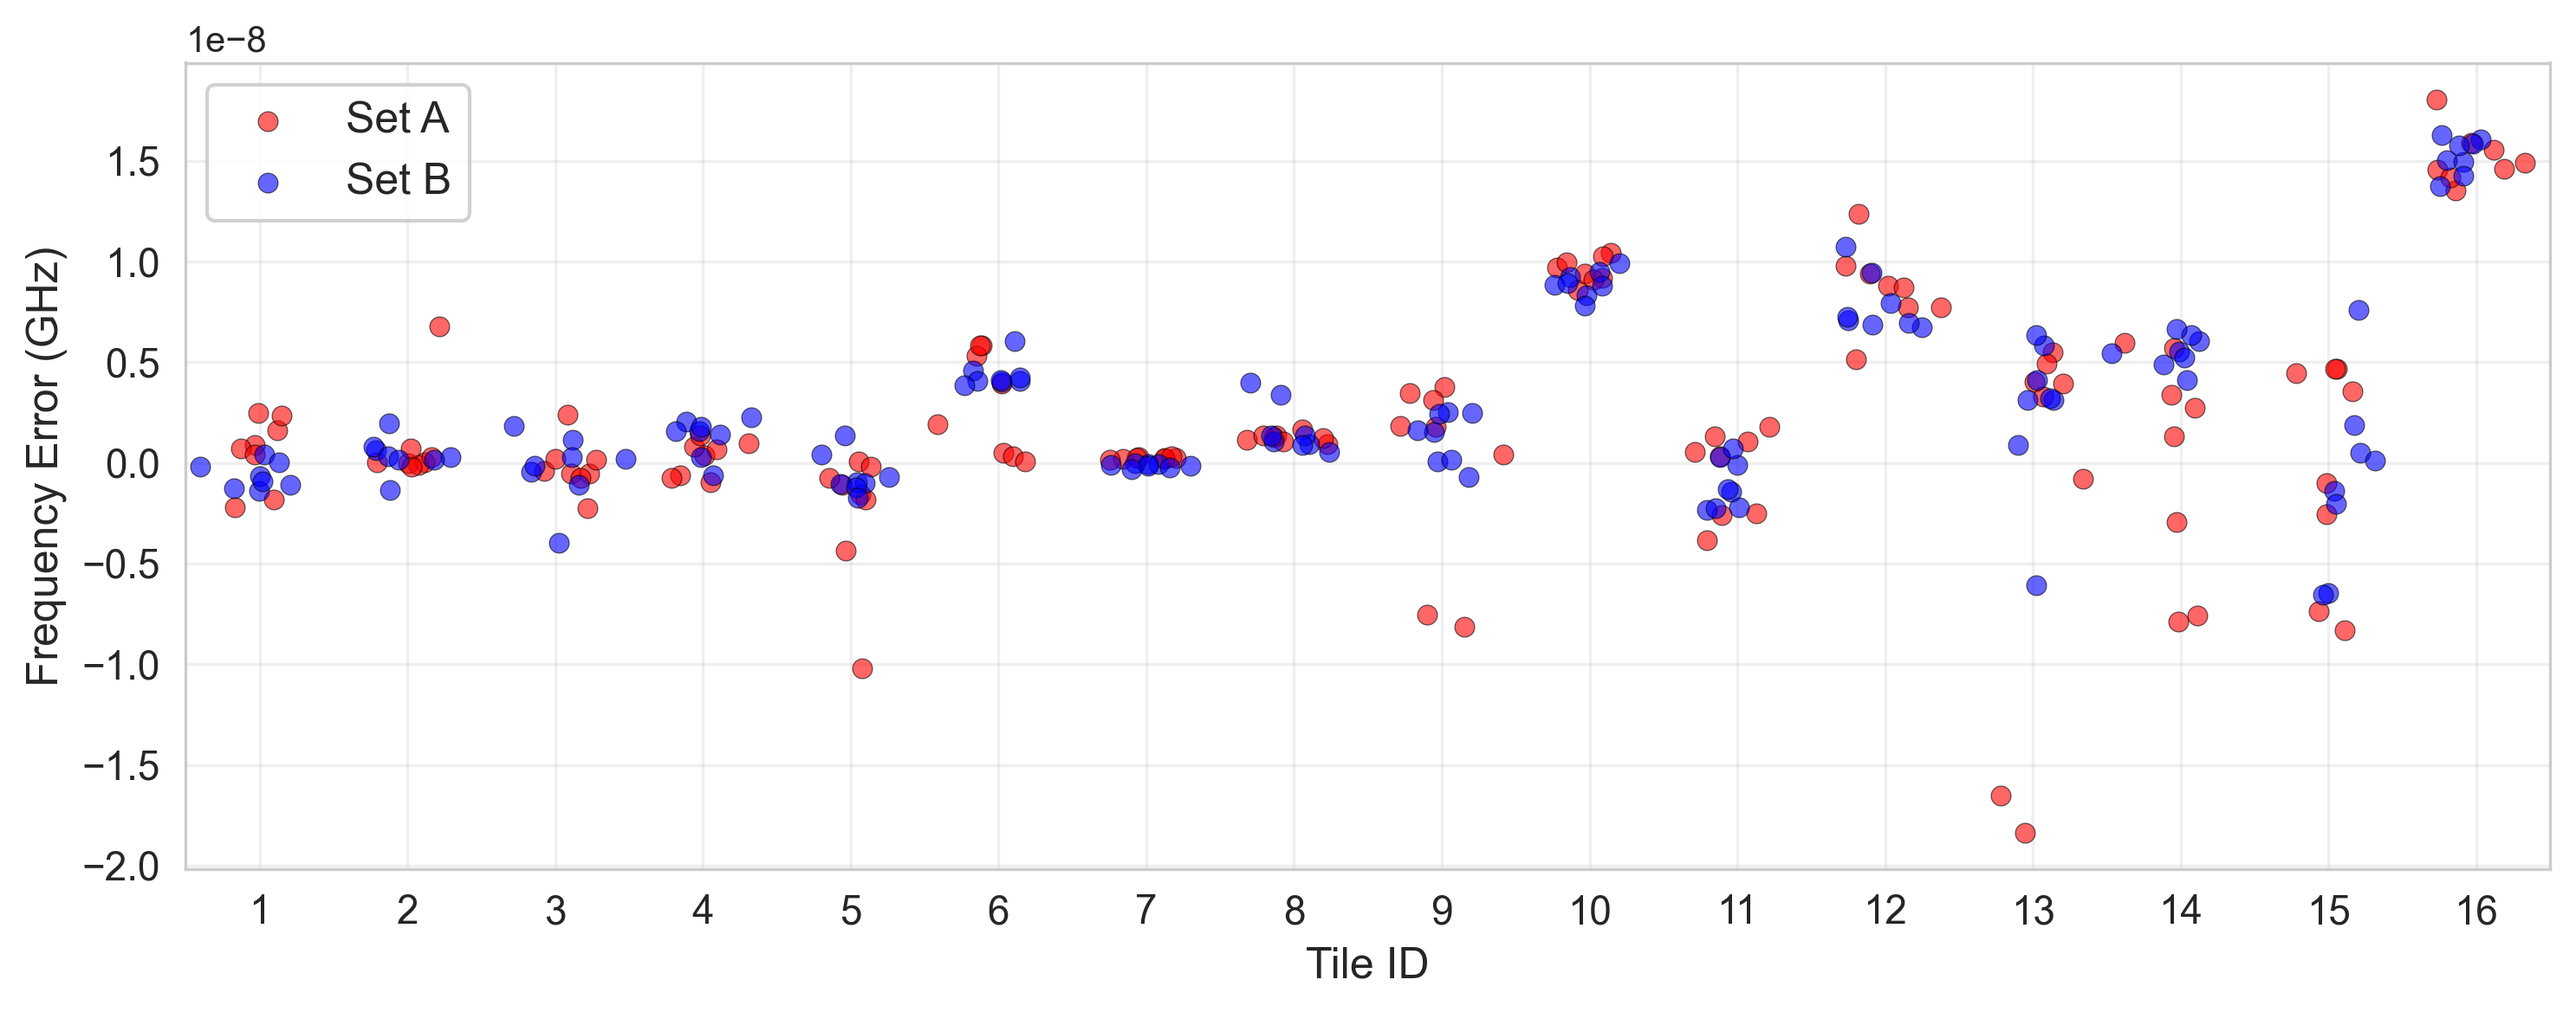
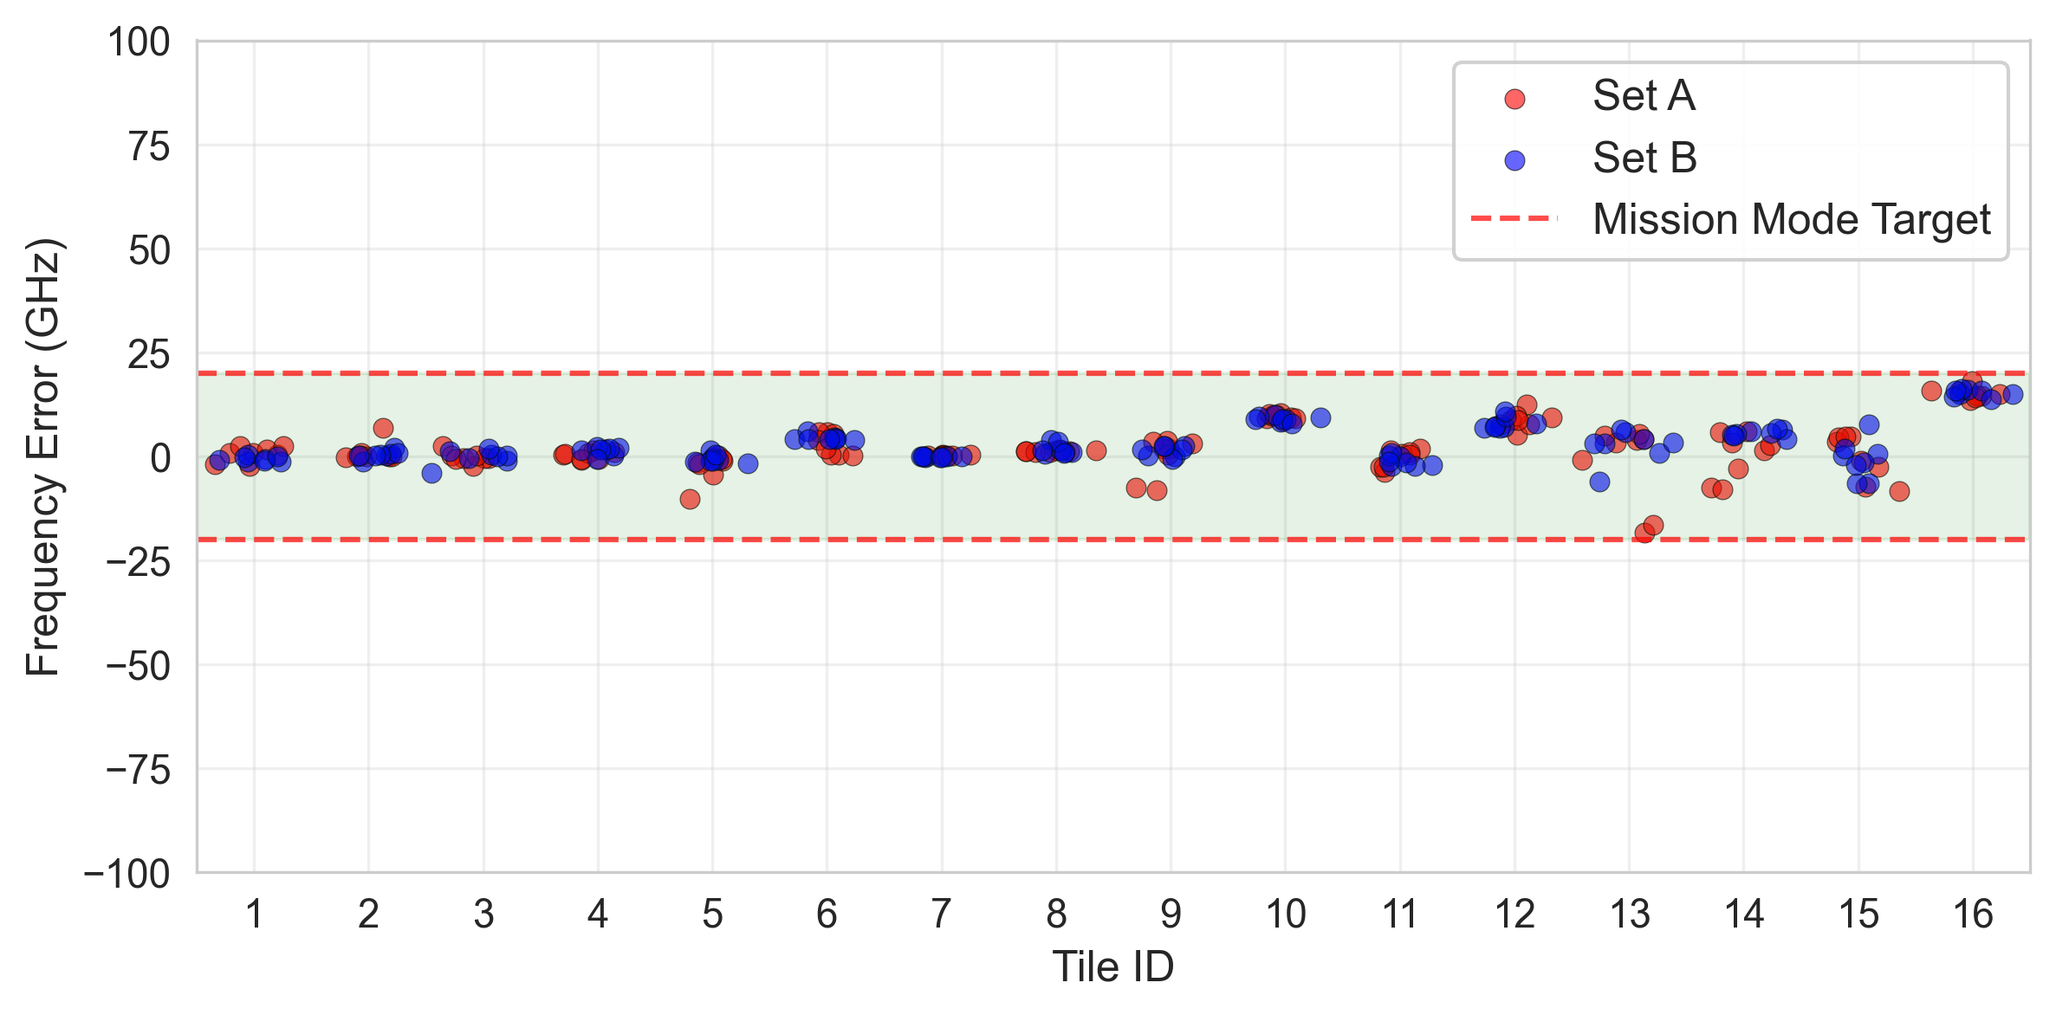
Update 30C analysis: change multiplier to 6.95 and add mission mode targets to freq error
- Change tile 5 bank B multiplier from 7.05 to 6.95
- Update frequency error plot figsize from (10, 4) to (8, 4)
- Add mission mode target lines at ±20 GHz (red dashed)
- Add green shaded region between -20 and 20 GHz
- Set y-axis range from -100 to 100 GHz for frequency error plot
- Fix wavelength conversion with 1e-9 factor for proper nm units

diff --git a/ips_clm/ips_clm_evt_ofc/analysis_src/module_analysis.py b/ips_clm/ips_clm_evt_ofc/analysis_src/module_analysis.py
@@ -5988,9 +5988,9 @@ class temperature_aggressors_2:
                 
                 # Each value in the array represents a channel
                 for channel_idx, value_uw in enumerate(pic_values_uw):
-                    # Special case: multiply tile 5, bank B by 7.25
+                    # Special case: multiply tile 5, bank B by 6.95
                     if tile_id == 5 and bank_type == 'BANK_B':
-                        value_uw = value_uw * 7.25
+                        value_uw = value_uw * 6.95
                     
                     # Convert from µW to dBm: dBm = 10 * log10(power_uW / 1000)
                     if value_uw > 0:
@@ -6021,7 +6021,7 @@ class temperature_aggressors_2:
         
         # Create the plot
         sns.set_style("whitegrid")
-        fig, ax = plt.subplots(figsize=(10, 4))
+        fig, ax = plt.subplots(figsize=(8, 4))
         
         # Define colors
         bank_colors = {'BANK_A': 'red', 'BANK_B': 'blue'}
@@ -6109,6 +6109,8 @@ class temperature_aggressors_2:
             bank_type = row['bank_type']
             try:
                 wl_ref = ast.literal_eval(row['wavelength_nm'])
+                # Apply 1e-9 factor to convert to nm
+                wl_ref = [w * 1e-9 for w in wl_ref]
                 ref_wavelengths[(tile_id, bank_type)] = wl_ref
             except:
                 continue
@@ -6135,7 +6137,9 @@ class temperature_aggressors_2:
             
             # Parse the wavelength_nm string as a list
             try:
-                wavelengths_nm = ast.literal_eval(row['wavelength_nm'])
+                wavelengths_raw = ast.literal_eval(row['wavelength_nm'])
+                # Apply 1e-9 factor to convert to nm
+                wavelengths_nm = [w * 1e-9 for w in wavelengths_raw]
                 
                 # Get reference wavelengths for this tile-bank combination
                 ref_wl = ref_wavelengths.get((tile_id, bank_type))
@@ -6175,7 +6179,7 @@ class temperature_aggressors_2:
         
         # Create the plot
         sns.set_style("whitegrid")
-        fig, ax = plt.subplots(figsize=(10, 4))
+        fig, ax = plt.subplots(figsize=(8, 4))
         
         # Define colors
         bank_colors = {'BANK_A': 'red', 'BANK_B': 'blue'}
@@ -6193,6 +6197,11 @@ class temperature_aggressors_2:
             ax.scatter(x, y, color=bank_colors[bank], alpha=0.6, s=30, 
                       label=bank_labels[bank], edgecolors='black', linewidth=0.3)
         
+        # Add mission mode target lines and shaded region
+        ax.axhline(y=20, color='red', linestyle='--', linewidth=1.5, alpha=0.7, label='Mission Mode Target')
+        ax.axhline(y=-20, color='red', linestyle='--', linewidth=1.5, alpha=0.7)
+        ax.axhspan(-20, 20, color='green', alpha=0.1)
+        
         # Labels and formatting (no title)
         ax.set_xlabel('Tile ID', fontsize=12)
         ax.set_ylabel('Frequency Error (GHz)', fontsize=12)
@@ -6204,6 +6213,9 @@ class temperature_aggressors_2:
         unique_tiles = sorted(df_plot['tile_id'].unique())
         ax.set_xticks(unique_tiles)
         ax.set_xlim(min(unique_tiles) - 0.5, max(unique_tiles) + 0.5)
+        
+        # Set y-axis from -100 to 100 GHz
+        ax.set_ylim(-100, 100)
         
         plt.tight_layout()
         
